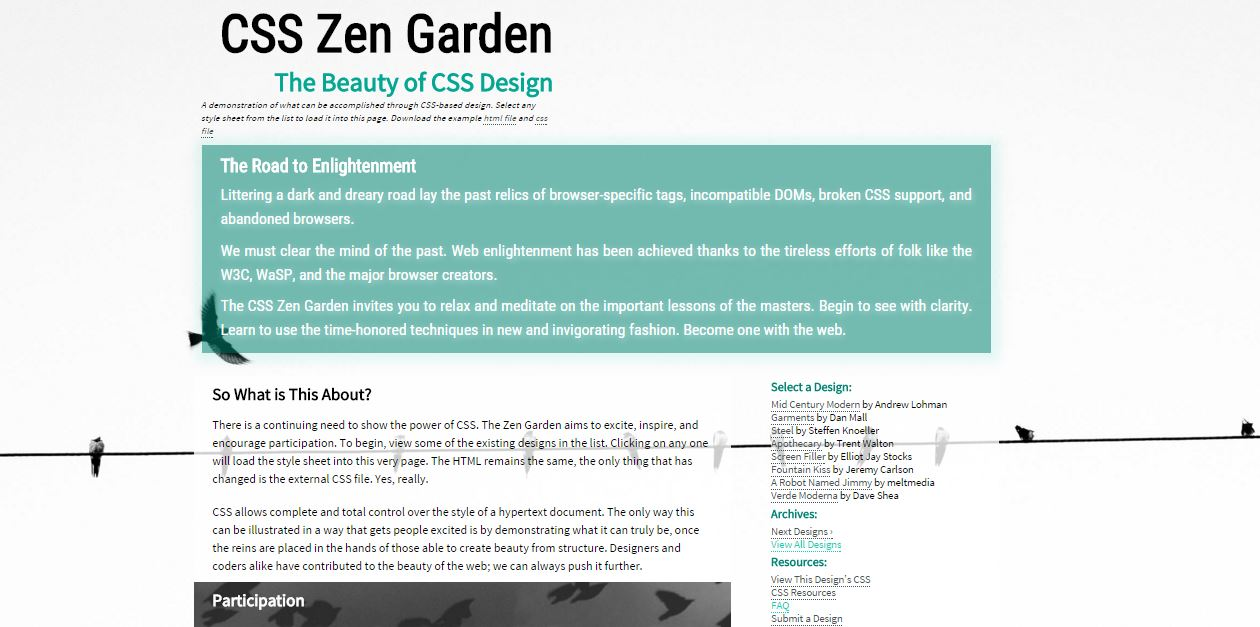
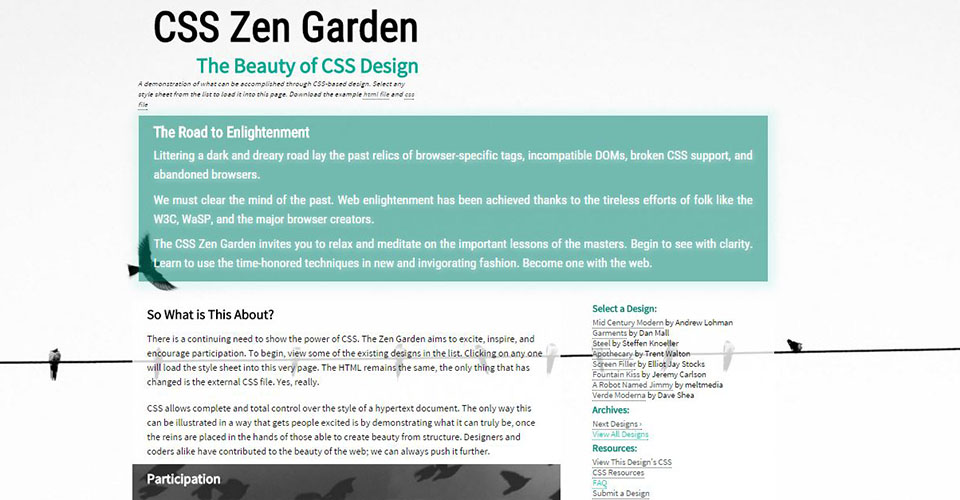
Ändrat width på body för tablet och desktop. Lagt till border på img i portfolio. Ändrat höjd på header i desktop och tablet

Changed region(s): [[0.0, 0.0, 1.0, 1.0], [0.125, 0.81, 0.5625, 1.0], [0.3438, 0.96, 0.375, 0.99]]

diff --git a/portfolio.html b/portfolio.html
@@ -7,7 +7,7 @@
 </head>
 <body>
 	<main>
-	       <header>
+	   <header>
        <!--OBS nedanstående knapp placeras i headern -->
             <div id="knapp">	
                 <div></div>
@@ -20,44 +20,53 @@
 	
 		<article class="portfolio">
 			<h3>Zen Garden - Birds On Line</h3>
-			<h4><a href="https://github.com/ylvayster/css-zen-garden" title="Länk till Github" target="_blank">https://github.com/ylvayster/css-zen-garden</a></h4>
+		
 			<figure><img class="portfolio" src="img/zengarden1.jpg" alt="Designen Birds On Line"></figure>
+				<h4><a href="https://github.com/ylvayster/css-zen-garden" title="Länk till Github" target="_blank">https://github.com/ylvayster/css-zen-garden</a></h4>
 			<p>"CSS Zen Garden" är ett projekt för att visa vad som kan åstadkommas med enbart CSS och HTML, som denna design är gjord i.</p>		
         </article>
         
-        <article class="portfolio">
+        		<article class="portfolio">
 			<h3>Zen Garden - Birds On Line</h3>
-			<h4><a href="https://github.com/ylvayster/css-zen-garden" title="Länk till Github" target="_blank">https://github.com/ylvayster/css-zen-garden</a></h4>
+		
 			<figure><img class="portfolio" src="img/zengarden1.jpg" alt="Designen Birds On Line"></figure>
+				<h4><a href="https://github.com/ylvayster/css-zen-garden" title="Länk till Github" target="_blank">https://github.com/ylvayster/css-zen-garden</a></h4>
 			<p>"CSS Zen Garden" är ett projekt för att visa vad som kan åstadkommas med enbart CSS och HTML, som denna design är gjord i.</p>		
         </article>
-               
-                <article class="portfolio">
+        
+        		<article class="portfolio">
 			<h3>Zen Garden - Birds On Line</h3>
-			<h4><a href="https://github.com/ylvayster/css-zen-garden" title="Länk till Github" target="_blank">https://github.com/ylvayster/css-zen-garden</a></h4>
+		
 			<figure><img class="portfolio" src="img/zengarden1.jpg" alt="Designen Birds On Line"></figure>
+				<h4><a href="https://github.com/ylvayster/css-zen-garden" title="Länk till Github" target="_blank">https://github.com/ylvayster/css-zen-garden</a></h4>
 			<p>"CSS Zen Garden" är ett projekt för att visa vad som kan åstadkommas med enbart CSS och HTML, som denna design är gjord i.</p>		
         </article>
-               
-                <article class="portfolio">
+        
+        		<article class="portfolio">
 			<h3>Zen Garden - Birds On Line</h3>
-			<h4><a href="https://github.com/ylvayster/css-zen-garden" title="Länk till Github" target="_blank">https://github.com/ylvayster/css-zen-garden</a></h4>
+		
 			<figure><img class="portfolio" src="img/zengarden1.jpg" alt="Designen Birds On Line"></figure>
+				<h4><a href="https://github.com/ylvayster/css-zen-garden" title="Länk till Github" target="_blank">https://github.com/ylvayster/css-zen-garden</a></h4>
 			<p>"CSS Zen Garden" är ett projekt för att visa vad som kan åstadkommas med enbart CSS och HTML, som denna design är gjord i.</p>		
         </article>
-                <article class="portfolio">
+        
+        		<article class="portfolio">
 			<h3>Zen Garden - Birds On Line</h3>
-			<h4><a href="https://github.com/ylvayster/css-zen-garden" title="Länk till Github" target="_blank">https://github.com/ylvayster/css-zen-garden</a></h4>
+		
 			<figure><img class="portfolio" src="img/zengarden1.jpg" alt="Designen Birds On Line"></figure>
+				<h4><a href="https://github.com/ylvayster/css-zen-garden" title="Länk till Github" target="_blank">https://github.com/ylvayster/css-zen-garden</a></h4>
 			<p>"CSS Zen Garden" är ett projekt för att visa vad som kan åstadkommas med enbart CSS och HTML, som denna design är gjord i.</p>		
         </article>
-               
-                <article class="portfolio">
+        
+        		<article class="portfolio">
 			<h3>Zen Garden - Birds On Line</h3>
-			<h4><a href="https://github.com/ylvayster/css-zen-garden" title="Länk till Github" target="_blank">https://github.com/ylvayster/css-zen-garden</a></h4>
+		
 			<figure><img class="portfolio" src="img/zengarden1.jpg" alt="Designen Birds On Line"></figure>
+				<h4><a href="https://github.com/ylvayster/css-zen-garden" title="Länk till Github" target="_blank">https://github.com/ylvayster/css-zen-garden</a></h4>
 			<p>"CSS Zen Garden" är ett projekt för att visa vad som kan åstadkommas med enbart CSS och HTML, som denna design är gjord i.</p>		
         </article>
+        
+
 	</main>
 </body>
 </html>

diff --git a/css/style.css b/css/style.css
@@ -23,7 +23,7 @@ body {
 
 header {
     width: 100%;
-	height: 100px;
+    height: 100px;
     background-image: url("../img/logotype.png");
     background-color: #FFC369;
     background-position: bottom center;
@@ -84,7 +84,9 @@ FOOTER
 /*PORTFOLIO*/
 
 article.portfolio {
-    background-color: #AEE8E6;  
+    box-sizing: border-box;
+    background-color: #AEE8E6; 
+    width: 100%;
     padding: 5%;
     text-align: center;
 }
@@ -98,13 +100,18 @@ background-color: #FFF;
 }
 
 figure{
-margin: 0;
+    margin: 0 auto;
 }
 
-img.portfolio {
+img.portfolio { 
+    box-sizing: border-box;
+    border: 12px solid #bebebe;
     max-width: 100%;
     height: auto;
+    border-radius: 5px;
+    box-shadow: 5px 5px 10px grey;
 }
+
 
 /* MENU */
 #utanKnapp {}
@@ -240,11 +247,6 @@ nav li.active a {
 	.col-m-10 {width: 81.33%;}
 	.col-m-11 {width: 89.66%;}
 	.col-m-12 {width: 98%;}
-
-	body {
-		width: 960px;
-		margin: 0 auto;
-	}
     
     .kartaNoscript {
     max-width: 100%;
@@ -254,7 +256,10 @@ nav li.active a {
     background-position: center left;
     background-size: cover; 
 }
-
+ header {
+    height: 175px;
+    }
+    
 }
 
 /* Desktop */ 
@@ -274,10 +279,9 @@ nav li.active a {
 	.col-11 {width: 89.66%;}
 	.col-12 {width: 98%;}
     
-  body {
-		width: 960px;
-		margin: 0 auto;
-	}
+     header {
+    height: 250px;
+    }
 
 [class*="col-"]{
 	float: left;
